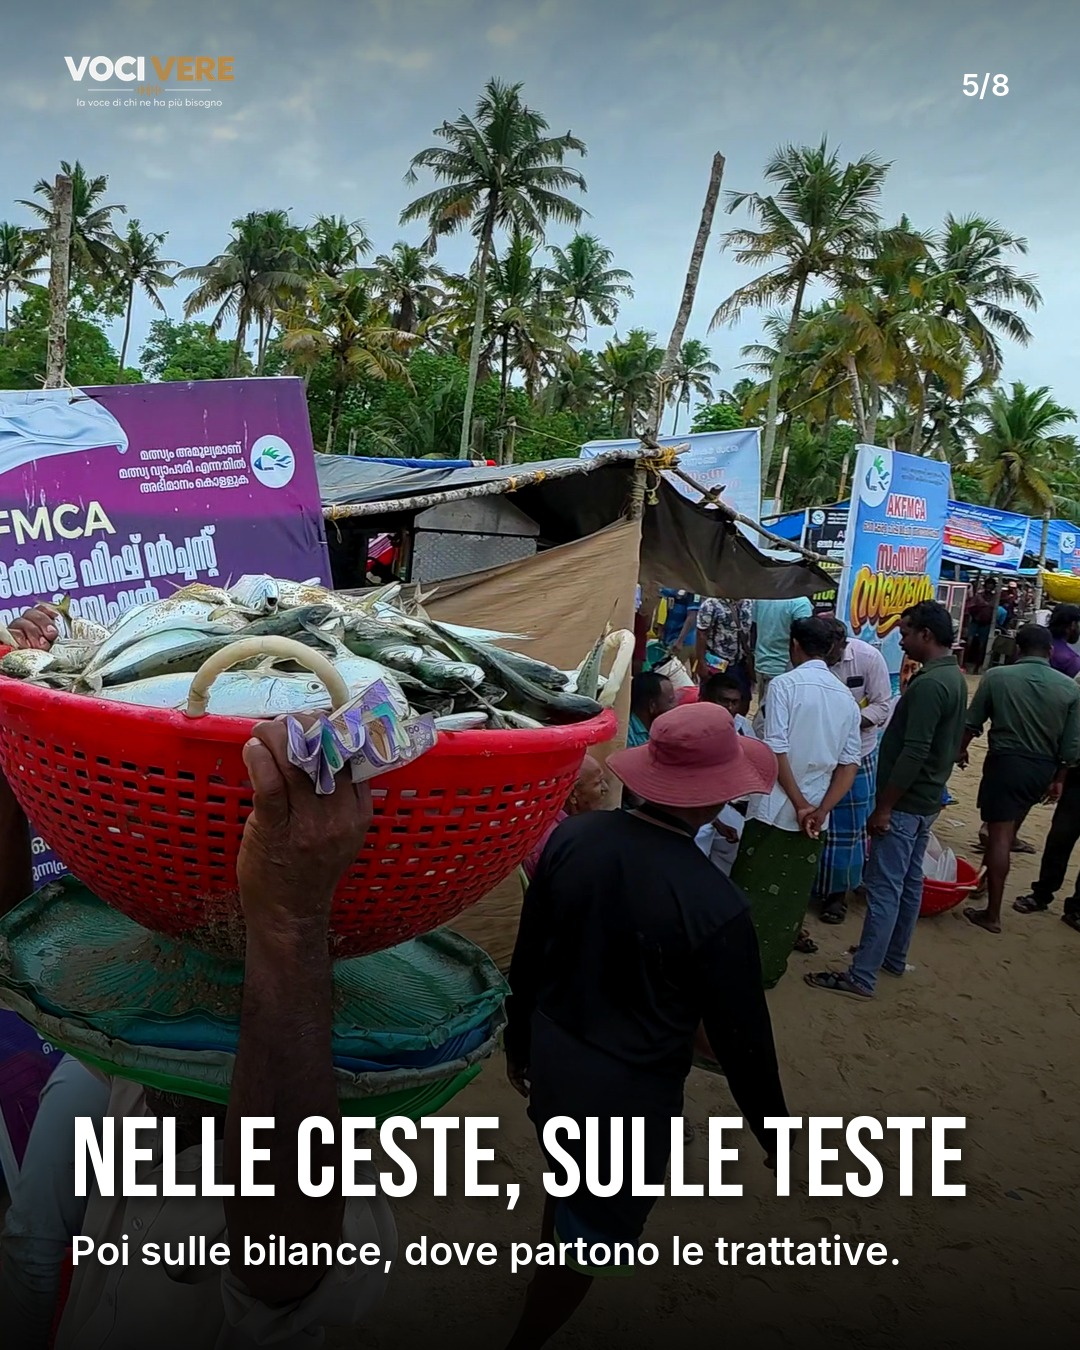
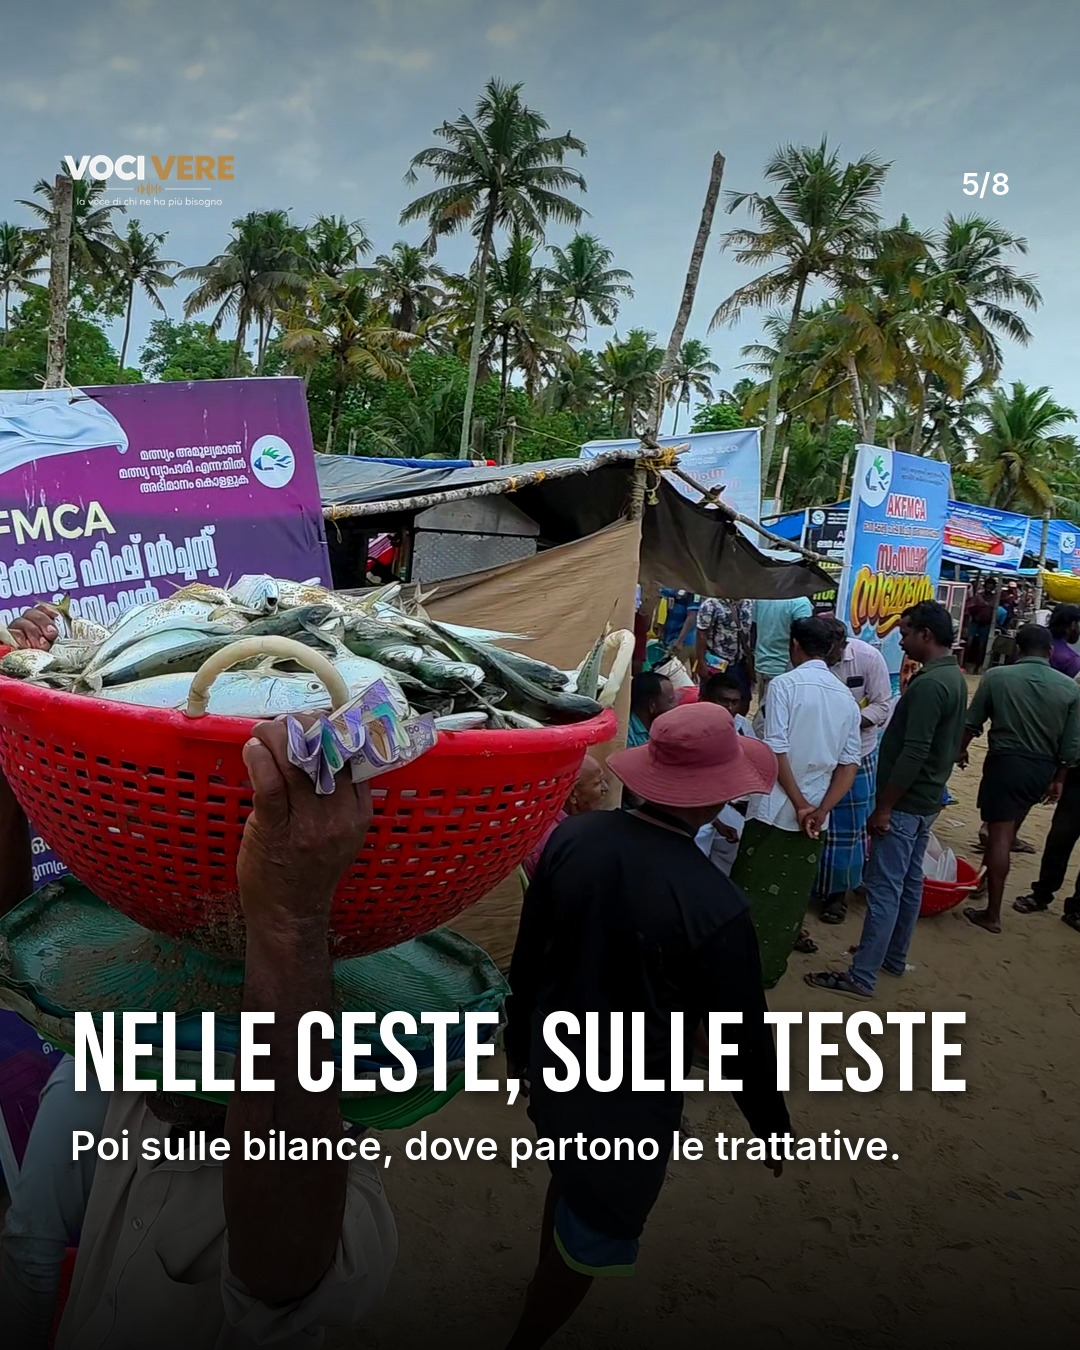
Caroselli: testo nel quadrato centrale per YouTube, domanda finale più specifica
Claude-Session: https://claude.ai/code/session_01NyVAZXcjQG4pUS9Hfqt7Ga

diff --git a/copioni/caroselli/carosello.py b/copioni/caroselli/carosello.py
@@ -4,6 +4,7 @@ import os
 from PIL import Image, ImageDraw, ImageFont, ImageEnhance, ImageFilter
 import numpy as np
 W,H=1080,1350
+SAFE=135  # YouTube ritaglia i post a quadrato: testo e logo dentro il quadrato centrale 1080x1080
 BEBAS='/root/fonts/bebas-neue-latin-400-normal.woff'
 INTER='/usr/share/fonts/opentype/inter/Inter-SemiBold.otf'
 INTERB='/usr/share/fonts/opentype/inter/Inter-Bold.otf'
@@ -17,7 +18,7 @@ def crop45(path,cx=.5,cy=.5,zoom=1.0,maxh=1.0):
 
 def shade(im,top=0.35,bottom=0.85):
     g=np.zeros((H,W),np.float32); y=np.arange(H)[:,None]/H
-    g+=np.clip((0.22-y)/0.22,0,1)*top            # in alto per il logo
+    g+=np.clip((0.30-y)/0.30,0,1)*top            # in alto per il logo
     g+=np.clip((y-0.42)/0.58,0,1)**1.2*bottom    # in basso per il testo
     m=Image.fromarray((np.clip(g,0,1)*255).astype('uint8'))
     return Image.composite(Image.new('RGB',(W,H),(0,0,0)),im,m)
@@ -49,15 +50,15 @@ def slide(out,photo,title,body='',n=None,tot=None,cover=False,crop=(.5,.5,1.0,1.
     im=(shade_top(im) if top else shade(im,0.45,0.9 if body or cover else 0.75)).convert('RGBA')
     d=ImageDraw.Draw(im); M=70
     l=Image.open(LOGO).convert('RGBA'); l=l.crop(l.getbbox()); lw=230 if cover else 170
-    l=l.resize((lw,int(l.height*lw/l.width)),Image.LANCZOS); im.alpha_composite(l,(M-6,56))
+    l=l.resize((lw,int(l.height*lw/l.width)),Image.LANCZOS); im.alpha_composite(l,(M-6,SAFE+20))
     if n and not cover:
-        f=ImageFont.truetype(INTER,30); t=f'{n}/{tot}'; d.text((W-M-d.textlength(t,font=f),66),t,font=f,fill=(255,255,255,210))
+        f=ImageFont.truetype(INTER,30); t=f'{n}/{tot}'; d.text((W-M-d.textlength(t,font=f),SAFE+30),t,font=f,fill=(255,255,255,210))
     tsize=150 if cover else 112
     ft=ImageFont.truetype(BEBAS,tsize); fb=ImageFont.truetype(INTER,40 if not cover else 42); fk=ImageFont.truetype(INTERB,32)
     tl=wrap(d,title,ft,W-2*M); bl=wrap(d,body,fb,W-2*M) if body else []
     th=len(tl)*int(tsize*0.92); bh=len(bl)*54
-    y=H-M-(70 if cover else 0)-bh-(28 if bl else 0)-th-(56 if kicker else 0)
-    if top: y=56+int(lw*l.height/l.width)+50
+    y=H-SAFE-40-(70 if cover else 0)-bh-(28 if bl else 0)-th-(56 if kicker else 0)
+    if top: y=SAFE+20+int(lw*l.height/l.width)+50
     if kicker:
         kw=d.textlength(kicker,font=fk); d.rounded_rectangle((M,y,M+kw+32,y+46),radius=8,fill=GOLD); d.text((M+16,y+5),kicker,font=fk,fill=WHITE); y+=62
     for i,t in enumerate(tl):
@@ -69,7 +70,7 @@ def slide(out,photo,title,body='',n=None,tot=None,cover=False,crop=(.5,.5,1.0,1.
     for t in bl:
         yy=y; drop(im,lambda dd,c,o,t=t,yy=yy: dd.text((M+o//2,yy+o//2),t,font=fb,fill=c or WHITE),6,170); y+=54
     if cover:
-        f=ImageFont.truetype(INTERB,34); t='Scorri  →'; d.text((W-M-d.textlength(t,font=f),H-M-40),t,font=f,fill=YEL)
+        f=ImageFont.truetype(INTERB,34); t='Scorri  →'; d.text((W-M-d.textlength(t,font=f),H-SAFE-60),t,font=f,fill=YEL)
     im.convert('RGB').save(out,quality=92)
 
 def build(name,slides):
@@ -115,6 +116,6 @@ build('arthunkal',[
       body='L\'arrivo, la mattina, davanti alla basilica di Sant\'Andrea.'),
  dict(photo=C+'a/a_090825_0298.jpg',crop=(.47,.5,1.0,1.0),title='Un pezzo d\'Italia',hl=YEL,
       body='La chiesa la ricostruisce nel 1584 un gesuita italiano, il «padre bianco». La statua di San Sebastiano arriva da Milano nel 1647.'),
- dict(photo=C+'a/a_093557_0316.jpg',crop=(.45,.5,1.0,1.0),title='Tu l\'avresti fatto?',hl=YEL,
+ dict(photo=C+'a/a_093557_0316.jpg',crop=(.45,.5,1.0,1.0),title='Cammineresti 13 km di notte pregando?',hl=YEL,
       body='Scrivi SÌ o NO nei commenti.\nIl video completo è uscito sul canale.'),
 ])

diff --git a/copioni/caroselli/testi_caroselli.md b/copioni/caroselli/testi_caroselli.md
@@ -3,7 +3,10 @@ Formato 4:5, 1080x1350, 8 immagini. File: copioni/caroselli/mercato/01-08.jpg e 
 Rigenerare: `python3 copioni/caroselli/carosello.py` (foto in work/car/, tolte dal lungo v6 e dal girato su Drive).
 Schema: 1 copertina-gancio con "Scorri", 6 slide con un fatto ciascuna (titolo di 2-5 parole + una riga),
 8 domanda nei commenti + video uscito. Logo in alto a sinistra, numero della slide in alto a destra.
-Da rivedere quando Insights manda gli schemi dei caroselli dei competitor.
+Aggiornato con gli schemi di Insights (analisi/competitor/caroselli.md, 25/10): testo e logo dentro il quadrato
+centrale 1080x1080 (YouTube ritaglia i post a quadrato), slide 2 che regge da sola, ultima slide con una domanda
+specifica. Alternativa proposta da Insights, da far scegliere a Manuel: schema Progetto Happiness (fotogrammi veri
+con le frasi vere delle persone come sottotitoli, CTA solo in didascalia).
 
 ## Mercato (dopo l'uscita del lungo, dom 1/11)
 Posizione IG/YT: Marari Beach, Mararikulam (Alappuzha, Kerala)
@@ -24,9 +27,9 @@ Didascalia IG:
 13 km pregando, senza mai fermarsi 🇮🇳
 Si parte a mezzanotte dal santuario di Kreupasanam, a Kalavoor, e si cammina lungo la costa del Kerala fino
 alla basilica di Arthunkal, recitando un rosario che non si interrompe mai. Noi c'eravamo dalle 2:30.
-Tu l'avresti fatto? Scrivi SÌ o NO nei commenti.
+Cammineresti 13 km di notte pregando? Scrivi SÌ o NO nei commenti.
 Il video completo è uscito sul canale, link in bio.
 #kerala #india #vocivere #arthunkal #pellegrinaggio
 Post YouTube (scheda Community):
 13 km pregando, senza mai fermarsi 🇮🇳 Di notte, sulla costa del Kerala, fino alla basilica di Arthunkal.
-Tu l'avresti fatto? Scrivi SÌ o NO nei commenti. Il video completo è sul canale.
+Cammineresti 13 km di notte pregando? Scrivi SÌ o NO nei commenti. Il video completo è sul canale.
